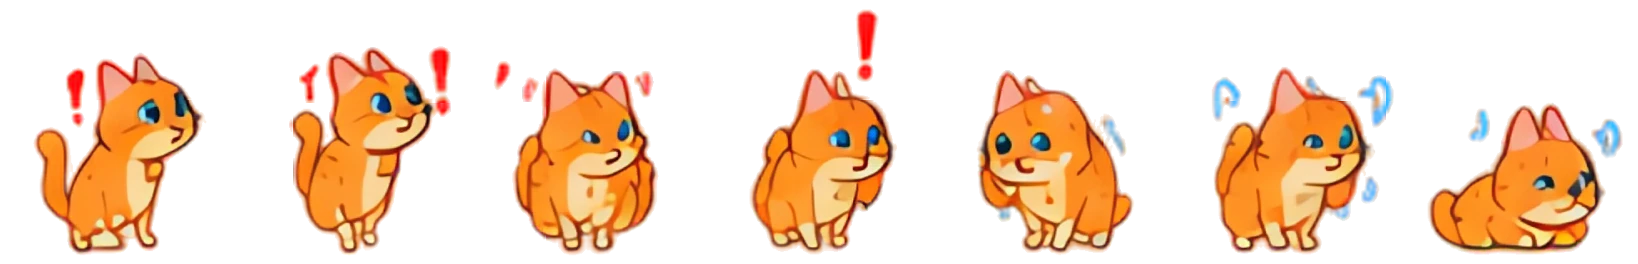
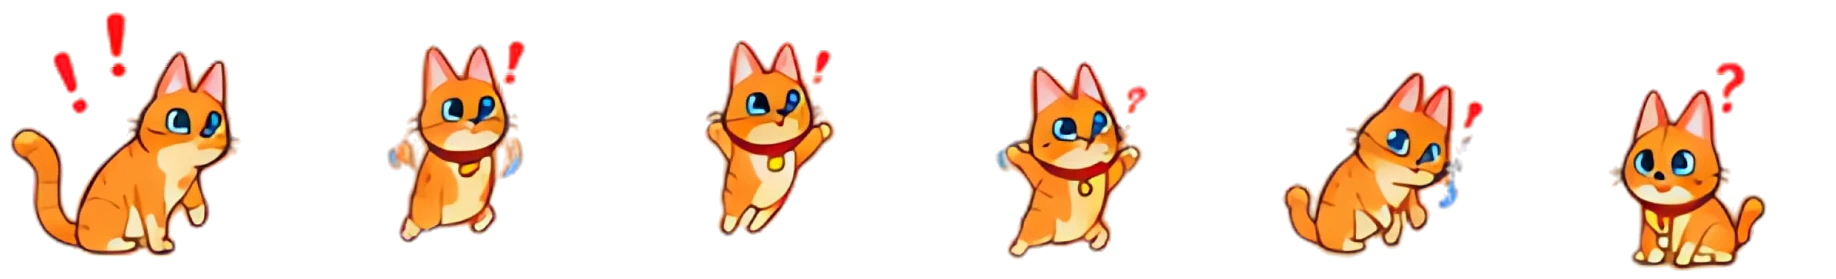
Cookie's smudged scared pose removed, no cat glow in dark mode (1.01)
Startled plays his surprised jump; he has no scared animation.

diff --git a/app/cookie/manifest.js b/app/cookie/manifest.js
@@ -1,3 +1,3 @@
 // Cookie: written by design/mochi/v3/sync.py from the v3 build. Do not edit by hand.
 // Every frame of an animation shares one canvas: his body centre is at ax, his paws at gy (display px).
-export default {"sit":64,"scale":3,"base":"cookie/","ext":"webp","anims":{"rest":{"w":60,"h":73,"ax":30,"gy":69,"frames":12,"fps":5,"face":"L","lock":["R",null,null,null,null,null,null,null,null,null,null,null],"exact":[true,false,false,false,false,false,false,false,false,false,false,false],"join":["R",0.995],"loop":[1,12]},"blink":{"w":62,"h":72,"ax":31,"gy":68,"frames":6,"fps":12,"face":"L","lock":[null,null,null,null,"R",null],"exact":[false,false,false,false,true,false],"join":[0.93,0.912]},"ear-twitch":{"w":66,"h":80,"ax":33,"gy":75,"frames":12,"fps":14,"face":"L","lock":[null,null,null,null,null,null,null,null,null,null,null,null],"exact":[false,false,false,false,false,false,false,false,false,false,false,false],"join":[0.862,0.811]},"look-around":{"w":66,"h":73,"ax":33,"gy":69,"frames":12,"fps":10,"face":"L","lock":[null,null,null,null,null,null,null,null,null,null,null,null],"exact":[false,false,false,false,false,false,false,false,false,false,false,false],"join":[0.829,0.81]},"look-scrub":{"w":54,"h":73,"ax":27,"gy":69,"frames":4,"fps":8,"face":"L","lock":[null,null,null,null],"exact":[false,false,false,false],"join":[0.829,0.783]},"yawn":{"w":70,"h":97,"ax":35,"gy":92,"frames":7,"fps":8,"face":"L","lock":[null,null,null,null,null,null,null],"exact":[false,false,false,false,false,false,false],"join":[0.648,0.602]},"face-wash":{"w":58,"h":73,"ax":29,"gy":69,"frames":6,"fps":9,"face":"L","lock":[null,null,null,null,null,null],"exact":[false,false,false,false,false,false],"join":[0.815,0.812]},"groom":{"w":72,"h":80,"ax":36,"gy":76,"frames":7,"fps":8,"face":"L","lock":[null,null,null,null,null,null,null],"exact":[false,false,false,false,false,false,false],"join":[0.492,0.711]},"scratch":{"w":76,"h":77,"ax":38,"gy":72,"frames":12,"fps":12,"face":"L","lock":[null,null,null,null,null,null,null,null,null,null,null,null],"exact":[false,false,false,false,false,false,false,false,false,false,false,false],"join":[0.859,0.715]},"sneeze":{"w":86,"h":73,"ax":43,"gy":69,"frames":6,"fps":10,"face":"L","lock":[null,null,null,null,null,null],"exact":[false,false,false,false,false,false],"join":[0.799,0.774]},"sniff":{"w":78,"h":68,"ax":39,"gy":64,"frames":8,"fps":9,"face":"L","lock":[null,null,null,null,null,null,null,null],"exact":[false,false,false,false,false,false,false,false],"join":[0.397,0.397]},"spot":{"w":54,"h":96,"ax":27,"gy":92,"frames":9,"fps":9,"face":"L","lock":[null,null,null,null,null,null,null,null,null],"exact":[false,false,false,false,false,false,false,false,false],"join":[0.752,0.747]},"stretch":{"w":92,"h":63,"ax":46,"gy":59,"frames":8,"fps":8,"face":"R","lock":[null,null,null,null,null,null,null,null],"exact":[false,false,false,false,false,false,false,false],"join":[0.383,0.371]},"back-stretch":{"w":104,"h":72,"ax":52,"gy":68,"frames":8,"fps":8,"face":"R","lock":[null,null,null,null,null,null,null,null],"exact":[false,false,false,false,false,false,false,false],"join":[0.303,0.298]},"dangle":{"w":54,"h":68,"ax":27,"gy":64,"frames":1,"fps":1,"face":"L","lock":[null],"exact":[false],"join":[0.528,0.528]},"tail-wrap":{"w":74,"h":84,"ax":37,"gy":79,"frames":12,"fps":12,"face":"L","lock":[null,null,null,null,null,null,null,null,null,null,null,null],"exact":[false,false,false,false,false,false,false,false,false,false,false,false],"join":[0.742,0.736]},"look-back":{"w":58,"h":74,"ax":29,"gy":69,"frames":12,"fps":11,"face":"L","lock":[null,null,null,null,null,null,null,null,null,null,null,null],"exact":[false,false,false,false,false,false,false,false,false,false,false,false],"join":[0.72,0.717]},"sitting-pretty":{"w":68,"h":73,"ax":34,"gy":69,"frames":8,"fps":9,"face":"L","lock":[null,null,null,null,null,null,null,null],"exact":[false,false,false,false,false,false,false,false],"join":[0.493,0.498]},"wave":{"w":56,"h":75,"ax":28,"gy":70,"frames":7,"fps":9,"face":"L","lock":[null,null,null,null,null,null,null],"exact":[false,false,false,false,false,false,false],"join":[0.816,0.665]},"boop":{"w":74,"h":74,"ax":37,"gy":70,"frames":6,"fps":12,"face":"L","lock":[null,null,null,null,null,null],"exact":[false,false,false,false,false,false],"join":[0.737,0.742]},"head-bonk":{"w":76,"h":77,"ax":38,"gy":72,"frames":7,"fps":11,"face":"L","lock":[null,null,null,null,null,null,null],"exact":[false,false,false,false,false,false,false],"join":[0.688,0.685]},"startled":{"w":78,"h":88,"ax":39,"gy":84,"frames":7,"fps":11,"face":"L","lock":[null,null,null,null,null,null,null],"exact":[false,false,false,false,false,false,false],"join":[0.497,0.493]},"heart-eyes":{"w":64,"h":82,"ax":32,"gy":78,"frames":6,"fps":9,"face":"L","lock":[null,null,null,null,null,null],"exact":[false,false,false,false,false,false],"join":[0.734,0.731],"loop":[3,5]},"stomp":{"w":100,"h":79,"ax":50,"gy":75,"frames":6,"fps":10,"face":"L","lock":[null,null,null,null,null,null],"exact":[false,false,false,false,false,false],"join":[0.605,0.459]},"grumpy":{"w":78,"h":83,"ax":39,"gy":79,"frames":8,"fps":10,"face":"L","lock":[null,null,null,null,null,null,null,null],"exact":[false,false,false,false,false,false,false,false],"join":[0.54,0.697]},"ignore":{"w":56,"h":74,"ax":28,"gy":70,"frames":5,"fps":8,"face":"L","lock":[null,null,null,null,null],"exact":[false,false,false,false,false],"join":[0.775,0.805],"hold":5},"cursor-swipe":{"w":74,"h":82,"ax":37,"gy":66,"frames":6,"fps":10,"face":"L","lock":[null,null,null,null,null,null],"exact":[false,false,false,false,false,false],"join":[0.452,0.438]},"follow-finger":{"w":74,"h":77,"ax":37,"gy":72,"frames":6,"fps":8,"face":"L","lock":[null,null,null,null,null,null],"exact":[false,false,false,false,false,false],"join":[0.701,0.748]},"pounce":{"w":162,"h":74,"ax":81,"gy":69,"frames":7,"fps":12,"face":"R","lock":[null,null,null,null,null,null,null],"exact":[false,false,false,false,false,false,false],"join":[0.577,0.583]},"chase":{"w":96,"h":61,"ax":48,"gy":57,"frames":8,"fps":12,"face":"R","lock":[null,null,null,null,null,null,null,null],"exact":[false,false,false,false,false,false,false,false],"join":[0.359,0.266]},"celebrate":{"w":66,"h":81,"ax":33,"gy":77,"frames":8,"fps":11,"face":"L","lock":[null,null,null,null,null,null,null,null],"exact":[false,false,false,false,false,false,false,false],"join":[0.599,0.697]},"victory":{"w":58,"h":76,"ax":29,"gy":72,"frames":8,"fps":11,"face":"L","lock":[null,null,null,null,null,null,null,null],"exact":[false,false,false,false,false,false,false,false],"join":[0.568,0.616]},"happy-wiggle":{"w":64,"h":81,"ax":32,"gy":73,"frames":12,"fps":12,"face":"L","lock":[null,null,null,null,null,null,null,null,null,null,null,null],"exact":[false,false,false,false,false,false,false,false,false,false,false,false],"join":[0.823,0.671]},"excited":{"w":68,"h":87,"ax":34,"gy":83,"frames":6,"fps":10,"face":"L","lock":[null,null,null,null,null,null],"exact":[false,false,false,false,false,false],"join":[0.733,0.722]},"surprised":{"w":102,"h":93,"ax":51,"gy":85,"frames":6,"fps":10,"face":"L","lock":[null,null,null,null,null,null],"exact":[false,false,false,false,false,false],"join":[0.396,0.641]},"sad":{"w":76,"h":73,"ax":38,"gy":69,"frames":6,"fps":7,"face":"L","lock":[null,null,null,null,null,null],"exact":[false,false,false,false,false,false],"join":[0.635,0.797]},"cry":{"w":80,"h":73,"ax":40,"gy":69,"frames":6,"fps":9,"face":"L","lock":[null,null,null,null,null,null],"exact":[false,false,false,false,false,false],"join":[0.751,0.742]},"suspicious":{"w":62,"h":75,"ax":31,"gy":71,"frames":6,"fps":8,"face":"L","lock":[null,null,null,null,null,null],"exact":[false,false,false,false,false,false],"join":[0.752,0.759]},"confused":{"w":66,"h":78,"ax":33,"gy":74,"frames":6,"fps":9,"face":"L","lock":[null,null,null,null,null,null],"exact":[false,false,false,false,false,false],"join":[0.754,0.751]},"notify":{"w":62,"h":76,"ax":31,"gy":72,"frames":6,"fps":10,"face":"L","lock":[null,null,null,null,null,null],"exact":[false,false,false,false,false,false],"join":[0.664,0.634]},"button":{"w":110,"h":74,"ax":55,"gy":69,"frames":7,"fps":10,"face":"L","lock":[null,null,null,null,null,null,null],"exact":[false,false,false,false,false,false,false],"join":[0.721,0.702]},"wipe":{"w":100,"h":74,"ax":50,"gy":69,"frames":10,"fps":11,"face":"L","lock":[null,null,null,null,null,null,null,null,null,null],"exact":[false,false,false,false,false,false,false,false,false,false],"join":[0.699,0.69]},"eat":{"w":52,"h":78,"ax":26,"gy":73,"frames":8,"fps":9,"face":"L","lock":[null,null,null,null,null,null,null,null],"exact":[false,false,false,false,false,false,false,false],"join":[0.72,0.73]},"happy-spin":{"w":66,"h":79,"ax":33,"gy":70,"frames":7,"fps":10,"face":"L","lock":[null,null,null,null,null,null,null],"exact":[false,false,false,false,false,false,false],"join":[0.633,0.608]},"get-up-right":{"w":98,"h":60,"ax":49,"gy":56,"frames":4,"fps":9,"face":"R","lock":[null,null,null,null],"exact":[false,false,false,false],"join":[0.484,0.298]},"get-up-left":{"w":102,"h":58,"ax":51,"gy":54,"frames":4,"fps":9,"face":"L","lock":[null,null,null,null],"exact":[false,false,false,false],"join":[0.537,0.328]},"walk":{"w":90,"h":58,"ax":45,"gy":54,"frames":8,"fps":10,"face":"R","lock":[null,null,null,null,null,null,null,null],"exact":[false,false,false,false,false,false,false,false],"join":[0.353,0.351],"loop":[1,8]},"sprint":{"w":98,"h":53,"ax":49,"gy":49,"frames":8,"fps":14,"face":"R","lock":[null,null,null,null,null,null,null,null],"exact":[false,false,false,false,false,false,false,false],"join":[0.348,0.257],"loop":[1,8]},"sprint-stop":{"w":78,"h":74,"ax":39,"gy":70,"frames":6,"fps":11,"face":"R","lock":[null,null,null,null,null,null],"exact":[false,false,false,false,false,false],"join":[0.629,0.525]},"lie-down":{"w":60,"h":73,"ax":30,"gy":69,"frames":8,"fps":7,"face":"L","lock":[null,null,null,null,null,null,null,null],"exact":[false,false,false,false,false,false,false,false],"join":[0.697,0.383]},"sleep":{"w":66,"h":66,"ax":33,"gy":62,"frames":3,"fps":2,"face":"L","lock":[null,null,null],"exact":[false,false,false],"join":[0.363,0.36],"loop":[1,3]},"get-up":{"w":76,"h":73,"ax":38,"gy":69,"frames":5,"fps":7,"face":"L","lock":[null,null,null,null,null],"exact":[false,false,false,false,false],"join":[0.33,0.655]},"edge-peek":{"w":52,"h":42,"ax":26,"gy":38,"frames":5,"fps":6,"face":"L","lock":[null,null,null,null,null],"exact":[false,false,false,false,false],"join":[0.163,0.035],"loop":[1,5]},"box-peek":{"w":76,"h":80,"ax":38,"gy":73,"frames":6,"fps":5,"face":"L","lock":[null,null,null,null,null,null],"exact":[false,false,false,false,false,false],"join":[0.58,0.543],"loop":[1,6]},"tail-chase":{"w":86,"h":75,"ax":43,"gy":70,"frames":6,"fps":9,"face":"L","lock":[null,null,null,null,null,null],"exact":[false,false,false,false,false,false],"join":[0.767,0.768]},"seated-turn":{"w":56,"h":74,"ax":28,"gy":70,"frames":10,"fps":9,"face":"L","lock":[null,null,null,null,null,null,null,null,null,null],"exact":[false,false,false,false,false,false,false,false,false,false],"join":[0.775,0.788]},"tail-balance":{"w":52,"h":84,"ax":26,"gy":77,"frames":8,"fps":9,"face":"L","lock":[null,null,null,null,null,null,null,null],"exact":[false,false,false,false,false,false,false,false],"join":[0.66,0.738]},"belly-flop":{"w":102,"h":74,"ax":51,"gy":70,"frames":8,"fps":11,"face":"L","lock":[null,null,null,null,null,null,null,null],"exact":[false,false,false,false,false,false,false,false],"join":[0.756,0.801]},"curious-sniff":{"w":78,"h":68,"ax":39,"gy":64,"frames":8,"fps":9,"face":"L","lock":[null,null,null,null,null,null,null,null],"exact":[false,false,false,false,false,false,false,false],"join":[0.397,0.397]},"startled-jump":{"w":92,"h":73,"ax":46,"gy":69,"frames":8,"fps":11,"face":"R","lock":[null,null,null,null,null,null,null,null],"exact":[false,false,false,false,false,false,false,false],"join":[0.395,0.373]},"angry-stomp":{"w":100,"h":79,"ax":50,"gy":75,"frames":6,"fps":10,"face":"L","lock":[null,null,null,null,null,null],"exact":[false,false,false,false,false,false],"join":[0.605,0.459]},"play-bow":{"w":68,"h":72,"ax":34,"gy":68,"frames":5,"fps":8,"face":"L","lock":[null,null,null,null,null],"exact":[false,false,false,false,false],"join":[0.601,0.607]},"roll":{"w":74,"h":82,"ax":37,"gy":66,"frames":6,"fps":9,"face":"L","lock":[null,null,null,null,null,null],"exact":[false,false,false,false,false,false],"join":[0.452,0.438]},"shake-off":{"w":76,"h":74,"ax":38,"gy":69,"frames":7,"fps":11,"face":"L","lock":[null,null,null,null,null,null,null],"exact":[false,false,false,false,false,false,false],"join":[0.652,0.671]},"scared":{"w":78,"h":88,"ax":39,"gy":84,"frames":7,"fps":10,"face":"L","lock":[null,null,null,null,null,null,null],"exact":[false,false,false,false,false,false,false],"join":[0.497,0.493]},"tail-puff":{"w":78,"h":83,"ax":39,"gy":79,"frames":8,"fps":10,"face":"L","lock":[null,null,null,null,null,null,null,null],"exact":[false,false,false,false,false,false,false,false],"join":[0.54,0.697]},"chasing-butterfly":{"w":80,"h":83,"ax":40,"gy":79,"frames":8,"fps":10,"face":"L","lock":[null,null,null,null,null,null,null,null],"exact":[false,false,false,false,false,false,false,false],"join":[0.585,0.584]},"peek":{"w":84,"h":72,"ax":42,"gy":68,"frames":8,"fps":7,"face":"L","lock":[null,null,null,null,null,null,null,null],"exact":[false,false,false,false,false,false,false,false],"join":[0.537,0.486]},"knock-over":{"w":80,"h":75,"ax":40,"gy":69,"frames":6,"fps":8,"face":"L","lock":[null,null,null,null,null,null],"exact":[false,false,false,false,false,false],"join":[0.516,0.592]},"play-with-yarn":{"w":98,"h":60,"ax":49,"gy":55,"frames":8,"fps":10,"face":"R","lock":[null,null,null,null,null,null,null,null],"exact":[false,false,false,false,false,false,false,false],"join":[0.314,0.36]},"drink":{"w":62,"h":87,"ax":31,"gy":71,"frames":8,"fps":9,"face":"L","lock":[null,null,null,null,null,null,null,null],"exact":[false,false,false,false,false,false,false,false],"join":[0.481,0.569]},"side-roll":{"w":68,"h":72,"ax":34,"gy":68,"frames":6,"fps":8,"face":"L","lock":[null,null,null,null,null,null],"exact":[false,false,false,false,false,false],"join":[0.759,0.593]},"relax":{"w":68,"h":72,"ax":34,"gy":68,"frames":6,"fps":7,"face":"L","lock":[null,null,null,null,null,null],"exact":[false,false,false,false,false,false],"join":[0.759,0.593]},"play-pounce":{"w":92,"h":63,"ax":46,"gy":59,"frames":8,"fps":12,"face":"R","lock":[null,null,null,null,null,null,null,null],"exact":[false,false,false,false,false,false,false,false],"join":[0.341,0.347]},"play-flip":{"w":74,"h":82,"ax":37,"gy":66,"frames":6,"fps":10,"face":"L","lock":[null,null,null,null,null,null],"exact":[false,false,false,false,false,false],"join":[0.452,0.438]},"window-watch":{"w":132,"h":73,"ax":66,"gy":69,"frames":6,"fps":6,"face":"L","lock":[null,null,null,null,null,null],"exact":[false,false,false,false,false,false],"join":[0.27,0.268],"loop":[1,6]},"dry-off":{"w":76,"h":74,"ax":38,"gy":69,"frames":7,"fps":11,"face":"L","lock":[null,null,null,null,null,null,null],"exact":[false,false,false,false,false,false,false],"join":[0.652,0.671]},"play-in-leaves":{"w":66,"h":79,"ax":33,"gy":70,"frames":7,"fps":10,"face":"L","lock":[null,null,null,null,null,null,null],"exact":[false,false,false,false,false,false,false],"join":[0.633,0.608]},"play-in-water":{"w":76,"h":74,"ax":38,"gy":69,"frames":7,"fps":11,"face":"L","lock":[null,null,null,null,null,null,null],"exact":[false,false,false,false,false,false,false],"join":[0.652,0.671]},"melt":{"w":86,"h":73,"ax":43,"gy":68,"frames":10,"fps":7,"face":"L","lock":[null,null,null,null,null,null,null,null,null,null],"exact":[false,false,false,false,false,false,false,false,false,false],"join":[0.8,0.243],"loop":[9,10]},"melt-up":{"w":90,"h":73,"ax":45,"gy":69,"frames":5,"fps":9,"face":"L","lock":[null,null,null,null,null],"exact":[false,false,false,false,false],"join":[0.259,0.759]},"squish":{"w":96,"h":74,"ax":48,"gy":69,"frames":10,"fps":11,"face":"L","lock":[null,null,null,null,null,null,null,null,null,null],"exact":[false,false,false,false,false,false,false,false,false,false],"join":[0.735,0.693]},"loaf":{"w":76,"h":79,"ax":38,"gy":74,"frames":12,"fps":7,"face":"L","lock":[null,null,null,null,null,null,null,null,null,null,null,null],"exact":[false,false,false,false,false,false,false,false,false,false,false,false],"join":[0.69,0.705]},"sulk":{"w":62,"h":74,"ax":31,"gy":70,"frames":6,"fps":6,"face":"L","lock":[null,null,null,null,null,null],"exact":[false,false,false,false,false,false],"join":[0.761,0.645],"hold":6},"huff":{"w":78,"h":75,"ax":39,"gy":70,"frames":10,"fps":10,"face":"L","lock":[null,null,null,null,null,null,null,null,null,null],"exact":[false,false,false,false,false,false,false,false,false,false],"join":[0.699,0.692]},"cheer":{"w":82,"h":82,"ax":41,"gy":78,"frames":10,"fps":11,"face":"L","lock":[null,null,null,null,null,null,null,null,null,null],"exact":[false,false,false,false,false,false,false,false,false,false],"join":[0.719,0.738]},"tail-sway":{"w":82,"h":73,"ax":41,"gy":69,"frames":6,"fps":6,"face":"L","lock":[null,null,null,null,null,null],"exact":[false,false,false,false,false,false],"join":[0.795,0.791],"loop":[1,6]},"pull-stretch":{"w":68,"h":102,"ax":34,"gy":98,"frames":6,"fps":10,"face":"L","lock":[null,null,null,null,null,null],"exact":[false,false,false,false,false,false],"join":[0.32,0.42]},"pull-hang":{"w":46,"h":101,"ax":23,"gy":97,"frames":2,"fps":4,"face":"L","lock":[null,null],"exact":[false,false],"join":[0.425,0.371],"loop":[1,2]},"pull-spin":{"w":86,"h":94,"ax":43,"gy":90,"frames":8,"fps":14,"face":"L","lock":[null,null,null,null,null,null,null,null],"exact":[false,false,false,false,false,false,false,false],"join":[0.398,0.791]}}};
+export default {"sit":64,"scale":3,"base":"cookie/","ext":"webp","anims":{"rest":{"w":60,"h":73,"ax":30,"gy":69,"frames":12,"fps":5,"face":"L","lock":["R",null,null,null,null,null,null,null,null,null,null,null],"exact":[true,false,false,false,false,false,false,false,false,false,false,false],"join":["R",0.995],"loop":[1,12]},"blink":{"w":62,"h":72,"ax":31,"gy":68,"frames":6,"fps":12,"face":"L","lock":[null,null,null,null,"R",null],"exact":[false,false,false,false,true,false],"join":[0.93,0.912]},"ear-twitch":{"w":66,"h":80,"ax":33,"gy":75,"frames":12,"fps":14,"face":"L","lock":[null,null,null,null,null,null,null,null,null,null,null,null],"exact":[false,false,false,false,false,false,false,false,false,false,false,false],"join":[0.862,0.811]},"look-around":{"w":66,"h":73,"ax":33,"gy":69,"frames":12,"fps":10,"face":"L","lock":[null,null,null,null,null,null,null,null,null,null,null,null],"exact":[false,false,false,false,false,false,false,false,false,false,false,false],"join":[0.829,0.81]},"look-scrub":{"w":54,"h":73,"ax":27,"gy":69,"frames":4,"fps":8,"face":"L","lock":[null,null,null,null],"exact":[false,false,false,false],"join":[0.829,0.783]},"yawn":{"w":70,"h":97,"ax":35,"gy":92,"frames":7,"fps":8,"face":"L","lock":[null,null,null,null,null,null,null],"exact":[false,false,false,false,false,false,false],"join":[0.648,0.602]},"face-wash":{"w":58,"h":73,"ax":29,"gy":69,"frames":6,"fps":9,"face":"L","lock":[null,null,null,null,null,null],"exact":[false,false,false,false,false,false],"join":[0.815,0.812]},"groom":{"w":72,"h":80,"ax":36,"gy":76,"frames":7,"fps":8,"face":"L","lock":[null,null,null,null,null,null,null],"exact":[false,false,false,false,false,false,false],"join":[0.492,0.711]},"scratch":{"w":76,"h":77,"ax":38,"gy":72,"frames":12,"fps":12,"face":"L","lock":[null,null,null,null,null,null,null,null,null,null,null,null],"exact":[false,false,false,false,false,false,false,false,false,false,false,false],"join":[0.859,0.715]},"sneeze":{"w":86,"h":73,"ax":43,"gy":69,"frames":6,"fps":10,"face":"L","lock":[null,null,null,null,null,null],"exact":[false,false,false,false,false,false],"join":[0.799,0.774]},"sniff":{"w":78,"h":68,"ax":39,"gy":64,"frames":8,"fps":9,"face":"L","lock":[null,null,null,null,null,null,null,null],"exact":[false,false,false,false,false,false,false,false],"join":[0.397,0.397]},"spot":{"w":54,"h":96,"ax":27,"gy":92,"frames":9,"fps":9,"face":"L","lock":[null,null,null,null,null,null,null,null,null],"exact":[false,false,false,false,false,false,false,false,false],"join":[0.752,0.747]},"stretch":{"w":92,"h":63,"ax":46,"gy":59,"frames":8,"fps":8,"face":"R","lock":[null,null,null,null,null,null,null,null],"exact":[false,false,false,false,false,false,false,false],"join":[0.383,0.371]},"back-stretch":{"w":104,"h":72,"ax":52,"gy":68,"frames":8,"fps":8,"face":"R","lock":[null,null,null,null,null,null,null,null],"exact":[false,false,false,false,false,false,false,false],"join":[0.303,0.298]},"dangle":{"w":54,"h":68,"ax":27,"gy":64,"frames":1,"fps":1,"face":"L","lock":[null],"exact":[false],"join":[0.528,0.528]},"tail-wrap":{"w":74,"h":84,"ax":37,"gy":79,"frames":12,"fps":12,"face":"L","lock":[null,null,null,null,null,null,null,null,null,null,null,null],"exact":[false,false,false,false,false,false,false,false,false,false,false,false],"join":[0.742,0.736]},"look-back":{"w":58,"h":74,"ax":29,"gy":69,"frames":12,"fps":11,"face":"L","lock":[null,null,null,null,null,null,null,null,null,null,null,null],"exact":[false,false,false,false,false,false,false,false,false,false,false,false],"join":[0.72,0.717]},"sitting-pretty":{"w":68,"h":73,"ax":34,"gy":69,"frames":8,"fps":9,"face":"L","lock":[null,null,null,null,null,null,null,null],"exact":[false,false,false,false,false,false,false,false],"join":[0.493,0.498]},"wave":{"w":56,"h":75,"ax":28,"gy":70,"frames":7,"fps":9,"face":"L","lock":[null,null,null,null,null,null,null],"exact":[false,false,false,false,false,false,false],"join":[0.816,0.665]},"boop":{"w":74,"h":74,"ax":37,"gy":70,"frames":6,"fps":12,"face":"L","lock":[null,null,null,null,null,null],"exact":[false,false,false,false,false,false],"join":[0.737,0.742]},"head-bonk":{"w":76,"h":77,"ax":38,"gy":72,"frames":7,"fps":11,"face":"L","lock":[null,null,null,null,null,null,null],"exact":[false,false,false,false,false,false,false],"join":[0.688,0.685]},"startled":{"w":102,"h":93,"ax":51,"gy":85,"frames":6,"fps":11,"face":"L","lock":[null,null,null,null,null,null],"exact":[false,false,false,false,false,false],"join":[0.396,0.641]},"heart-eyes":{"w":64,"h":82,"ax":32,"gy":78,"frames":6,"fps":9,"face":"L","lock":[null,null,null,null,null,null],"exact":[false,false,false,false,false,false],"join":[0.734,0.731],"loop":[3,5]},"stomp":{"w":100,"h":79,"ax":50,"gy":75,"frames":6,"fps":10,"face":"L","lock":[null,null,null,null,null,null],"exact":[false,false,false,false,false,false],"join":[0.605,0.459]},"grumpy":{"w":78,"h":83,"ax":39,"gy":79,"frames":8,"fps":10,"face":"L","lock":[null,null,null,null,null,null,null,null],"exact":[false,false,false,false,false,false,false,false],"join":[0.54,0.697]},"ignore":{"w":56,"h":74,"ax":28,"gy":70,"frames":5,"fps":8,"face":"L","lock":[null,null,null,null,null],"exact":[false,false,false,false,false],"join":[0.775,0.805],"hold":5},"cursor-swipe":{"w":74,"h":82,"ax":37,"gy":66,"frames":6,"fps":10,"face":"L","lock":[null,null,null,null,null,null],"exact":[false,false,false,false,false,false],"join":[0.452,0.438]},"follow-finger":{"w":74,"h":77,"ax":37,"gy":72,"frames":6,"fps":8,"face":"L","lock":[null,null,null,null,null,null],"exact":[false,false,false,false,false,false],"join":[0.701,0.748]},"pounce":{"w":162,"h":74,"ax":81,"gy":69,"frames":7,"fps":12,"face":"R","lock":[null,null,null,null,null,null,null],"exact":[false,false,false,false,false,false,false],"join":[0.577,0.583]},"chase":{"w":96,"h":61,"ax":48,"gy":57,"frames":8,"fps":12,"face":"R","lock":[null,null,null,null,null,null,null,null],"exact":[false,false,false,false,false,false,false,false],"join":[0.359,0.266]},"celebrate":{"w":66,"h":81,"ax":33,"gy":77,"frames":8,"fps":11,"face":"L","lock":[null,null,null,null,null,null,null,null],"exact":[false,false,false,false,false,false,false,false],"join":[0.599,0.697]},"victory":{"w":58,"h":76,"ax":29,"gy":72,"frames":8,"fps":11,"face":"L","lock":[null,null,null,null,null,null,null,null],"exact":[false,false,false,false,false,false,false,false],"join":[0.568,0.616]},"happy-wiggle":{"w":64,"h":81,"ax":32,"gy":73,"frames":12,"fps":12,"face":"L","lock":[null,null,null,null,null,null,null,null,null,null,null,null],"exact":[false,false,false,false,false,false,false,false,false,false,false,false],"join":[0.823,0.671]},"excited":{"w":68,"h":87,"ax":34,"gy":83,"frames":6,"fps":10,"face":"L","lock":[null,null,null,null,null,null],"exact":[false,false,false,false,false,false],"join":[0.733,0.722]},"surprised":{"w":102,"h":93,"ax":51,"gy":85,"frames":6,"fps":10,"face":"L","lock":[null,null,null,null,null,null],"exact":[false,false,false,false,false,false],"join":[0.396,0.641]},"sad":{"w":76,"h":73,"ax":38,"gy":69,"frames":6,"fps":7,"face":"L","lock":[null,null,null,null,null,null],"exact":[false,false,false,false,false,false],"join":[0.635,0.797]},"cry":{"w":80,"h":73,"ax":40,"gy":69,"frames":6,"fps":9,"face":"L","lock":[null,null,null,null,null,null],"exact":[false,false,false,false,false,false],"join":[0.751,0.742]},"suspicious":{"w":62,"h":75,"ax":31,"gy":71,"frames":6,"fps":8,"face":"L","lock":[null,null,null,null,null,null],"exact":[false,false,false,false,false,false],"join":[0.752,0.759]},"confused":{"w":66,"h":78,"ax":33,"gy":74,"frames":6,"fps":9,"face":"L","lock":[null,null,null,null,null,null],"exact":[false,false,false,false,false,false],"join":[0.754,0.751]},"notify":{"w":62,"h":76,"ax":31,"gy":72,"frames":6,"fps":10,"face":"L","lock":[null,null,null,null,null,null],"exact":[false,false,false,false,false,false],"join":[0.664,0.634]},"button":{"w":110,"h":74,"ax":55,"gy":69,"frames":7,"fps":10,"face":"L","lock":[null,null,null,null,null,null,null],"exact":[false,false,false,false,false,false,false],"join":[0.721,0.702]},"wipe":{"w":100,"h":74,"ax":50,"gy":69,"frames":10,"fps":11,"face":"L","lock":[null,null,null,null,null,null,null,null,null,null],"exact":[false,false,false,false,false,false,false,false,false,false],"join":[0.699,0.69]},"eat":{"w":52,"h":78,"ax":26,"gy":73,"frames":8,"fps":9,"face":"L","lock":[null,null,null,null,null,null,null,null],"exact":[false,false,false,false,false,false,false,false],"join":[0.72,0.73]},"happy-spin":{"w":66,"h":79,"ax":33,"gy":70,"frames":7,"fps":10,"face":"L","lock":[null,null,null,null,null,null,null],"exact":[false,false,false,false,false,false,false],"join":[0.633,0.608]},"get-up-right":{"w":98,"h":60,"ax":49,"gy":56,"frames":4,"fps":9,"face":"R","lock":[null,null,null,null],"exact":[false,false,false,false],"join":[0.484,0.298]},"get-up-left":{"w":102,"h":58,"ax":51,"gy":54,"frames":4,"fps":9,"face":"L","lock":[null,null,null,null],"exact":[false,false,false,false],"join":[0.537,0.328]},"walk":{"w":90,"h":58,"ax":45,"gy":54,"frames":8,"fps":10,"face":"R","lock":[null,null,null,null,null,null,null,null],"exact":[false,false,false,false,false,false,false,false],"join":[0.353,0.351],"loop":[1,8]},"sprint":{"w":98,"h":53,"ax":49,"gy":49,"frames":8,"fps":14,"face":"R","lock":[null,null,null,null,null,null,null,null],"exact":[false,false,false,false,false,false,false,false],"join":[0.348,0.257],"loop":[1,8]},"sprint-stop":{"w":78,"h":74,"ax":39,"gy":70,"frames":6,"fps":11,"face":"R","lock":[null,null,null,null,null,null],"exact":[false,false,false,false,false,false],"join":[0.629,0.525]},"lie-down":{"w":60,"h":73,"ax":30,"gy":69,"frames":8,"fps":7,"face":"L","lock":[null,null,null,null,null,null,null,null],"exact":[false,false,false,false,false,false,false,false],"join":[0.697,0.383]},"sleep":{"w":66,"h":66,"ax":33,"gy":62,"frames":3,"fps":2,"face":"L","lock":[null,null,null],"exact":[false,false,false],"join":[0.363,0.36],"loop":[1,3]},"get-up":{"w":76,"h":73,"ax":38,"gy":69,"frames":5,"fps":7,"face":"L","lock":[null,null,null,null,null],"exact":[false,false,false,false,false],"join":[0.33,0.655]},"edge-peek":{"w":52,"h":42,"ax":26,"gy":38,"frames":5,"fps":6,"face":"L","lock":[null,null,null,null,null],"exact":[false,false,false,false,false],"join":[0.163,0.035],"loop":[1,5]},"box-peek":{"w":76,"h":80,"ax":38,"gy":73,"frames":6,"fps":5,"face":"L","lock":[null,null,null,null,null,null],"exact":[false,false,false,false,false,false],"join":[0.58,0.543],"loop":[1,6]},"tail-chase":{"w":86,"h":75,"ax":43,"gy":70,"frames":6,"fps":9,"face":"L","lock":[null,null,null,null,null,null],"exact":[false,false,false,false,false,false],"join":[0.767,0.768]},"seated-turn":{"w":56,"h":74,"ax":28,"gy":70,"frames":10,"fps":9,"face":"L","lock":[null,null,null,null,null,null,null,null,null,null],"exact":[false,false,false,false,false,false,false,false,false,false],"join":[0.775,0.788]},"tail-balance":{"w":52,"h":84,"ax":26,"gy":77,"frames":8,"fps":9,"face":"L","lock":[null,null,null,null,null,null,null,null],"exact":[false,false,false,false,false,false,false,false],"join":[0.66,0.738]},"belly-flop":{"w":102,"h":74,"ax":51,"gy":70,"frames":8,"fps":11,"face":"L","lock":[null,null,null,null,null,null,null,null],"exact":[false,false,false,false,false,false,false,false],"join":[0.756,0.801]},"curious-sniff":{"w":78,"h":68,"ax":39,"gy":64,"frames":8,"fps":9,"face":"L","lock":[null,null,null,null,null,null,null,null],"exact":[false,false,false,false,false,false,false,false],"join":[0.397,0.397]},"startled-jump":{"w":92,"h":73,"ax":46,"gy":69,"frames":8,"fps":11,"face":"R","lock":[null,null,null,null,null,null,null,null],"exact":[false,false,false,false,false,false,false,false],"join":[0.395,0.373]},"angry-stomp":{"w":100,"h":79,"ax":50,"gy":75,"frames":6,"fps":10,"face":"L","lock":[null,null,null,null,null,null],"exact":[false,false,false,false,false,false],"join":[0.605,0.459]},"play-bow":{"w":68,"h":72,"ax":34,"gy":68,"frames":5,"fps":8,"face":"L","lock":[null,null,null,null,null],"exact":[false,false,false,false,false],"join":[0.601,0.607]},"roll":{"w":74,"h":82,"ax":37,"gy":66,"frames":6,"fps":9,"face":"L","lock":[null,null,null,null,null,null],"exact":[false,false,false,false,false,false],"join":[0.452,0.438]},"shake-off":{"w":76,"h":74,"ax":38,"gy":69,"frames":7,"fps":11,"face":"L","lock":[null,null,null,null,null,null,null],"exact":[false,false,false,false,false,false,false],"join":[0.652,0.671]},"tail-puff":{"w":78,"h":83,"ax":39,"gy":79,"frames":8,"fps":10,"face":"L","lock":[null,null,null,null,null,null,null,null],"exact":[false,false,false,false,false,false,false,false],"join":[0.54,0.697]},"chasing-butterfly":{"w":80,"h":83,"ax":40,"gy":79,"frames":8,"fps":10,"face":"L","lock":[null,null,null,null,null,null,null,null],"exact":[false,false,false,false,false,false,false,false],"join":[0.585,0.584]},"peek":{"w":84,"h":72,"ax":42,"gy":68,"frames":8,"fps":7,"face":"L","lock":[null,null,null,null,null,null,null,null],"exact":[false,false,false,false,false,false,false,false],"join":[0.537,0.486]},"knock-over":{"w":80,"h":75,"ax":40,"gy":69,"frames":6,"fps":8,"face":"L","lock":[null,null,null,null,null,null],"exact":[false,false,false,false,false,false],"join":[0.516,0.592]},"play-with-yarn":{"w":98,"h":60,"ax":49,"gy":55,"frames":8,"fps":10,"face":"R","lock":[null,null,null,null,null,null,null,null],"exact":[false,false,false,false,false,false,false,false],"join":[0.314,0.36]},"drink":{"w":62,"h":87,"ax":31,"gy":71,"frames":8,"fps":9,"face":"L","lock":[null,null,null,null,null,null,null,null],"exact":[false,false,false,false,false,false,false,false],"join":[0.481,0.569]},"side-roll":{"w":68,"h":72,"ax":34,"gy":68,"frames":6,"fps":8,"face":"L","lock":[null,null,null,null,null,null],"exact":[false,false,false,false,false,false],"join":[0.759,0.593]},"relax":{"w":68,"h":72,"ax":34,"gy":68,"frames":6,"fps":7,"face":"L","lock":[null,null,null,null,null,null],"exact":[false,false,false,false,false,false],"join":[0.759,0.593]},"play-pounce":{"w":92,"h":63,"ax":46,"gy":59,"frames":8,"fps":12,"face":"R","lock":[null,null,null,null,null,null,null,null],"exact":[false,false,false,false,false,false,false,false],"join":[0.341,0.347]},"play-flip":{"w":74,"h":82,"ax":37,"gy":66,"frames":6,"fps":10,"face":"L","lock":[null,null,null,null,null,null],"exact":[false,false,false,false,false,false],"join":[0.452,0.438]},"window-watch":{"w":132,"h":73,"ax":66,"gy":69,"frames":6,"fps":6,"face":"L","lock":[null,null,null,null,null,null],"exact":[false,false,false,false,false,false],"join":[0.27,0.268],"loop":[1,6]},"dry-off":{"w":76,"h":74,"ax":38,"gy":69,"frames":7,"fps":11,"face":"L","lock":[null,null,null,null,null,null,null],"exact":[false,false,false,false,false,false,false],"join":[0.652,0.671]},"play-in-leaves":{"w":66,"h":79,"ax":33,"gy":70,"frames":7,"fps":10,"face":"L","lock":[null,null,null,null,null,null,null],"exact":[false,false,false,false,false,false,false],"join":[0.633,0.608]},"play-in-water":{"w":76,"h":74,"ax":38,"gy":69,"frames":7,"fps":11,"face":"L","lock":[null,null,null,null,null,null,null],"exact":[false,false,false,false,false,false,false],"join":[0.652,0.671]},"melt":{"w":86,"h":73,"ax":43,"gy":68,"frames":10,"fps":7,"face":"L","lock":[null,null,null,null,null,null,null,null,null,null],"exact":[false,false,false,false,false,false,false,false,false,false],"join":[0.8,0.243],"loop":[9,10]},"melt-up":{"w":90,"h":73,"ax":45,"gy":69,"frames":5,"fps":9,"face":"L","lock":[null,null,null,null,null],"exact":[false,false,false,false,false],"join":[0.259,0.759]},"squish":{"w":96,"h":74,"ax":48,"gy":69,"frames":10,"fps":11,"face":"L","lock":[null,null,null,null,null,null,null,null,null,null],"exact":[false,false,false,false,false,false,false,false,false,false],"join":[0.735,0.693]},"loaf":{"w":76,"h":79,"ax":38,"gy":74,"frames":12,"fps":7,"face":"L","lock":[null,null,null,null,null,null,null,null,null,null,null,null],"exact":[false,false,false,false,false,false,false,false,false,false,false,false],"join":[0.69,0.705]},"sulk":{"w":62,"h":74,"ax":31,"gy":70,"frames":6,"fps":6,"face":"L","lock":[null,null,null,null,null,null],"exact":[false,false,false,false,false,false],"join":[0.761,0.645],"hold":6},"huff":{"w":78,"h":75,"ax":39,"gy":70,"frames":10,"fps":10,"face":"L","lock":[null,null,null,null,null,null,null,null,null,null],"exact":[false,false,false,false,false,false,false,false,false,false],"join":[0.699,0.692]},"cheer":{"w":82,"h":82,"ax":41,"gy":78,"frames":10,"fps":11,"face":"L","lock":[null,null,null,null,null,null,null,null,null,null],"exact":[false,false,false,false,false,false,false,false,false,false],"join":[0.719,0.738]},"tail-sway":{"w":82,"h":73,"ax":41,"gy":69,"frames":6,"fps":6,"face":"L","lock":[null,null,null,null,null,null],"exact":[false,false,false,false,false,false],"join":[0.795,0.791],"loop":[1,6]},"pull-stretch":{"w":68,"h":102,"ax":34,"gy":98,"frames":6,"fps":10,"face":"L","lock":[null,null,null,null,null,null],"exact":[false,false,false,false,false,false],"join":[0.32,0.42]},"pull-hang":{"w":46,"h":101,"ax":23,"gy":97,"frames":2,"fps":4,"face":"L","lock":[null,null],"exact":[false,false],"join":[0.425,0.371],"loop":[1,2]},"pull-spin":{"w":86,"h":94,"ax":43,"gy":90,"frames":8,"fps":14,"face":"L","lock":[null,null,null,null,null,null,null,null],"exact":[false,false,false,false,false,false,false,false],"join":[0.398,0.791]}}};

diff --git a/app/css/app.css b/app/css/app.css
@@ -94,10 +94,7 @@
 :root[data-theme="dark"] input[type=checkbox]:checked { background: var(--a-mint); }
 /* switching theme: everything changes at once, instead of every control fading at its own speed (js/theme.js) */
 :root.theme-swap *, :root.theme-swap *::before, :root.theme-swap *::after { transition: none !important; }
-/* Mochi is a black cat: on the dark background he gets a soft light rim so he doesn't disappear */
-:root[data-theme="dark"] .mochi .act, :root[data-theme="dark"] [data-sprite], :root[data-theme="dark"] .empty-mochi { filter: drop-shadow(0 0 1px rgba(236,232,225,.7)) drop-shadow(0 0 4px rgba(236,232,225,.16)); }
-/* Cookie is orange: he stands out on the dark theme by himself, and the glow would only blur his outline */
-:root[data-theme="dark"][data-cat="cookie"] .mochi .act, :root[data-theme="dark"][data-cat="cookie"] [data-sprite], :root[data-theme="dark"][data-cat="cookie"] .empty-mochi { filter: none; }
+/* no glow around the cats on the dark theme: their own outlines carry them */
 * { box-sizing: border-box; margin: 0; padding: 0; }
 html, body { height: 100%; }
 body { background: var(--cream); color: var(--ink); font: 15px/1.4 Inter, "Segoe UI", system-ui, -apple-system, Roboto, sans-serif; -webkit-tap-highlight-color: transparent;

diff --git a/app/sw.js b/app/sw.js
@@ -4,7 +4,7 @@
    when the browser runs a periodic background sync (installed app, Chrome/Edge, roughly every
    15 min at best and at the browser's discretion) or when a push message arrives. Exact-time
    delivery with the app closed needs a push server (or the native wrapper's local notifications). */
-const VERSION = 'taskflow-v47';
+const VERSION = 'taskflow-v48';
 const SHELL = [
   './', 'index.html', 'manifest.webmanifest', 'css/app.css',
   'js/main.js', 'js/store.js', 'js/storage.js', 'js/dates.js', 'js/parse.js', 'js/recur.js', 'js/ics.js', 'js/stats.js',

diff --git a/app/js/changelog.js b/app/js/changelog.js
@@ -6,6 +6,8 @@ export const CHANGELOG = [
     items: [
       'Cookie has his own art for 28 more moves: the peek over the screen edge, tail chase, sneeze, boop, heart eyes, a dramatic cry, melting into a nap, the loaf, squish, sulk, cheer and more.',
       'Pull to refresh with Cookie: he stretches, hangs on and spins, like Mochi.',
+      'Fixed: a smudged, blurry pose Cookie sometimes made after a tap. He now jumps up surprised instead.',
+      'No more glow around the cats in dark mode.',
     ],
   },
   {
